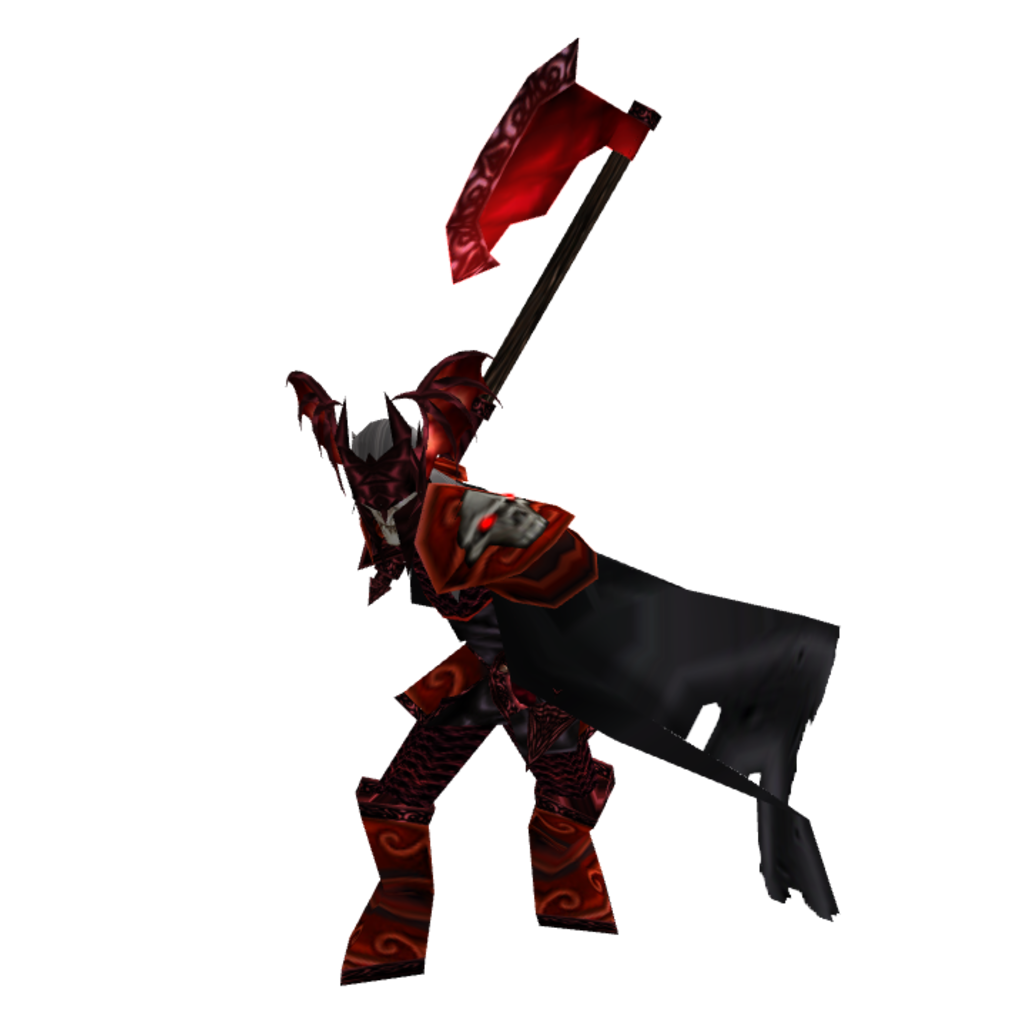
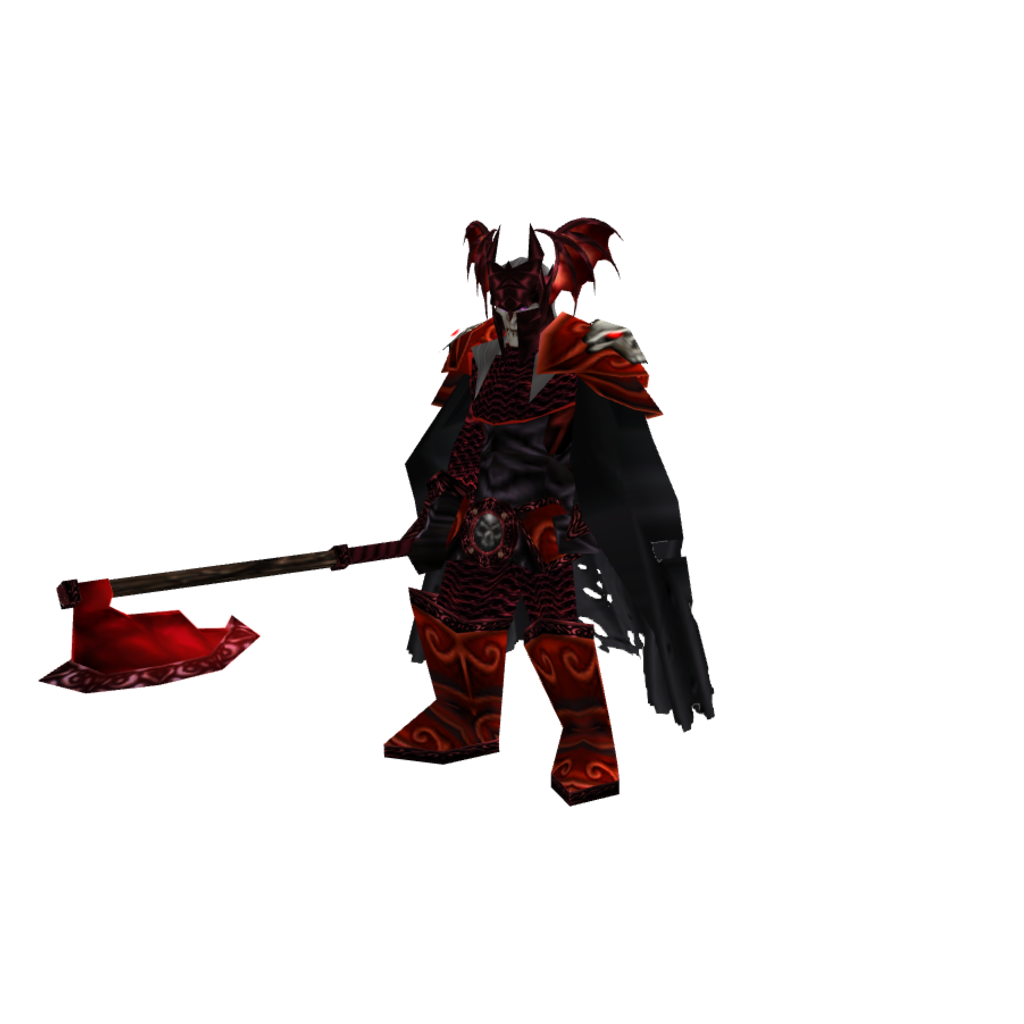
Publish Blood Dragon standing card artwork

Changed region(s): [[0.0312, 0.0312, 0.8438, 0.9688]]

diff --git a/model/blood-dragon/index.html b/model/blood-dragon/index.html
@@ -5,7 +5,7 @@
 <meta property="og:title" content="Blood Dragon">
 <meta property="og:description" content="Preview and download a Warhammer Fantasy Blood Dragon model for Warcraft 3. A Vampire Counts warrior with a double axe and 16 animations.">
 <meta property="og:url" content="https://www.lowpolyworks.com/model/blood-dragon/">
-<meta property="og:image" content="https://www.lowpolyworks.com/thumbs/unit-blood-dragon.png?v=20261122-blood-dragon-8f638787">
+<meta property="og:image" content="https://www.lowpolyworks.com/thumbs/unit-blood-dragon.png?v=20261122-blood-dragon-axe03-stand">
 <meta property="og:image:type" content="image/png">
 <meta property="og:image:width" content="1024">
 <meta property="og:image:height" content="1024">
@@ -13,7 +13,7 @@
 <meta name="twitter:card" content="summary_large_image">
 <meta name="twitter:title" content="Blood Dragon">
 <meta name="twitter:description" content="Preview and download a Warhammer Fantasy Blood Dragon model for Warcraft 3. A Vampire Counts warrior with a double axe and 16 animations.">
-<meta name="twitter:image" content="https://www.lowpolyworks.com/thumbs/unit-blood-dragon.png?v=20261122-blood-dragon-8f638787">
+<meta name="twitter:image" content="https://www.lowpolyworks.com/thumbs/unit-blood-dragon.png?v=20261122-blood-dragon-axe03-stand">
 </head>
 <body><header class="masthead"><a class="brand lowpolyworks-brand" href="#feed" aria-label="LowPolyWorks"><svg class="lowpolyworks-art" viewBox="0 0 1695 951" width="1695" height="951" aria-hidden="true" style="overflow:visible" xmlns="http://www.w3.org/2000/svg">
   <defs>
@@ -35,7 +35,7 @@
 </svg></a><details class="project-menu mobile-disclosure" open><summary>Menu</summary><nav aria-label="Main menu"><a class="project-brand mdlxl-brand" href="/mdlxl/" aria-label="MDLxL"><svg xmlns="http://www.w3.org/2000/svg" width="0" height="0" aria-hidden="true" focusable="false" style="position:absolute;pointer-events:none"><defs><filter id="mdlxl-wordmark-inner-outline" x="-10%" y="-10%" width="120%" height="120%" color-interpolation-filters="sRGB"><feMorphology in="SourceAlpha" operator="erode" radius="0.65" result="letter-interior"/><feComposite in="SourceGraphic" in2="letter-interior" operator="in" result="original-interior"/><feComposite in="SourceAlpha" in2="letter-interior" operator="out" result="inner-edge"/><feFlood flood-color="#e7ebee" result="outline-colour"/><feComposite in="outline-colour" in2="inner-edge" operator="in" result="coloured-inner-edge"/><feComposite in="original-interior" in2="coloured-inner-edge" operator="arithmetic" k1="0" k2="1" k3="1" k4="0"/></filter></defs></svg><img class="mdlxl-brand-icon" src="ui/mdlxl-button-icon-cleaned-v1.svg" alt="" width="48" height="48"><span class="mdlxl-wordmark" aria-hidden="true">MDL<span>x</span>L</span></a><a class="project-brand warhammercraft-brand" href="/warhammercraft/" aria-label="WarhammerCraft"><span class="warhammercraft-wordmark" aria-hidden="true"><img src="ui/warhammercraft-button-wordmark-v1.svg" alt="" width="935" height="174"></span></a></nav></details></header><div class="site-shell"><aside class="side-menu side-left"><details class="army-menu mobile-disclosure" open><summary id="army-menu-title">Browse armies</summary><nav id="army-navigation" aria-label="Army navigation"></nav></details></aside><main id="app" aria-live="polite"><div class="model-title"><h1>Blood Dragon</h1></div>
 <div class="model-layout">
 <section class="viewer slab" aria-label="Model preview"><div class="viewport">
-<noscript><img src="/thumbs/unit-blood-dragon.png?v=20261122-blood-dragon-8f638787" alt="Blood Dragon" width="1024" height="1024" style="display:block;width:100%;height:100%;object-fit:contain"></noscript>
+<noscript><img src="/thumbs/unit-blood-dragon.png?v=20261122-blood-dragon-axe03-stand" alt="Blood Dragon" width="1024" height="1024" style="display:block;width:100%;height:100%;object-fit:contain"></noscript>
 </div></section>
 <section class="details slab"><div class="tab-content">
 <p>Preview and download a Warhammer Fantasy Blood Dragon model for Warcraft 3. A Vampire Counts warrior with a double axe and 16 animations. <a href="/army/vampire-counts/">Vampire Counts</a></p>
